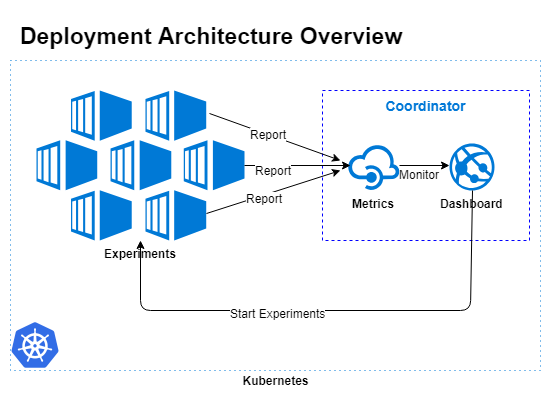
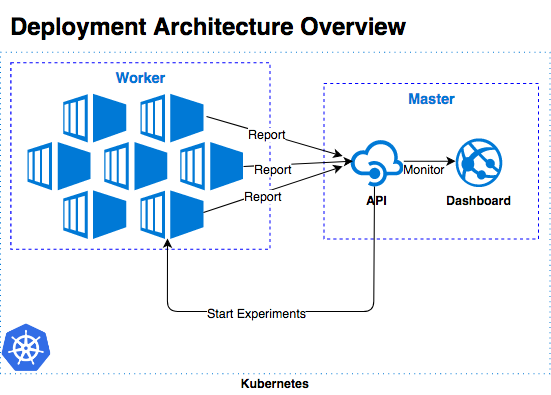
Restructures Overview page

diff --git a/docs/installation.rst b/docs/installation.rst
@@ -5,6 +5,8 @@ Installation
 
 Make sure to read :doc:`prerequisites` before installing mlbench.
 
+All guides assume you have checked out the mlbench github repository and have a terminal open in the checked-out ``mlbench`` directory.
+
 .. _helm-charts:
 
 Helm Chart values
@@ -40,6 +42,21 @@ Use helm to install the mlbench chart (Replace ``${RELEASE_NAME}`` with a name o
 
    $ helm upgrade --wait --recreate-pods -f values.yaml --timeout 900 --install ${RELEASE_NAME} charts/mlbench
 
+Follow the instructions at the end of the helm install to get the dashboard URL. E.g.:
+
+.. code-block:: bash
+   :emphasize-lines: 5,6,7
+
+   $ helm upgrade --wait --recreate-pods -f values.yaml --timeout 900 --install rel charts/mlbench
+     [...]
+     NOTES:
+     1. Get the application URL by running these commands:
+        export NODE_PORT=$(kubectl get --namespace default -o jsonpath="{.spec.ports[0].nodePort}" services rel-mlbench-master)
+        export NODE_IP=$(kubectl get nodes --namespace default -o jsonpath="{.items[0].status.addresses[0].address}")
+        echo http://$NODE_IP:$NODE_PORT
+
+This outputs the URL the Dashboard is accessible at.
+
 
 Google Cloud / Google Kubernetes Engine (GKE)
 ---------------------------------------------
@@ -61,7 +78,7 @@ Install mlbench (Replace ``${RELEASE_NAME}`` with a name of your choice):
 
    helm upgrade --wait --recreate-pods -f values.yaml --timeout 900 --install ${RELEASE_NAME} charts/mlbench
 
-To access mlbench, run these commands and open the URL that's returned (**Note**: The default instructions returned by `helm` on the commandline return the internal cluster ip only):
+To access mlbench, run these commands and open the URL that' is returned (**Note**: The default instructions returned by `helm` on the commandline return the internal cluster ip only):
 
 .. code-block:: bash
 

diff --git a/docs/dashboard.rst b/docs/dashboard.rst
@@ -1,11 +1,11 @@
-=========
+
 Dashboard
-=========
+^^^^^^^^^
 
 MLBench comes with a dashboard to manage and monitor the cluster and jobs.
 
 Main Page
----------
+"""""""""
 
 .. figure:: images/Dashboard_Index.png
    :alt: Dashboard Main Page
@@ -14,12 +14,27 @@ Main Page
 
 The main view shows all MLBench worker nodes and their current status
 
-Test Page
----------
+Runs Page
+"""""""""
 
 .. figure:: images/Dashboard_Test.png
-   :alt: Dashboard Test Page
+   :alt: Dashboard Runs Page
 
-   Dashboard Test Page
+   Dashboard Runs Page
 
-The Test page allows you to start an OpenMPI job on the worker nodes and shows the result
+The Runs page allows you to start a new experiment on the worker nodes. You can select how many workers to use, how many CPU Cores each worker can utilize and limit the network bandwidth available to workers.
+
+
+Run Details Page
+""""""""""""""""
+
+.. figure:: images/Dashboard_Run.png
+   :alt: Dashboard Run Details Page
+
+   Dashboard Run Details Page
+
+The Run Details page shows the progress and result of an experiment. You can track metrics like ``train loss`` and ``validation accuracy`` as well as see the ``stdout`` and ``stderr`` logs of all workers.
+
+It also allows you to download all the metrics of a run as well as resource usage of all workers participating in the run as json files.
+
+

diff --git a/docs/overview.rst b/docs/overview.rst
@@ -1,6 +1,6 @@
-========
-Overview
-========
+
+Component Overview
+=====================
 
 .. figure:: images/DeploymentArchitecture.png
    :alt: Deployment Architecture Overview
@@ -14,15 +14,16 @@ Master
 -----------
 The master contains the Dashboard, the  main interface for the project. The dashboard allows
 you to start and run a distributed ML experiment and visualizes the progress and result of the
-experiment. It allows management of the mlbench nodes in the kubernetes cluster and for most
+experiment. It allows management of the mlbench nodes in the Kubernetes cluster and for most
 users constitutes the sole way they interact with the mlbench project.
 
-It also contains a decidated metrics API that is used for the nodes to report their state back
-to the Master.
+It also contains a REST API that can be use instead of the Dashboard, as well as being used for receiving data from the Dashboard.
 
-The Master can also be granted access to the Kubernetes API to manage cluster settings
-relevant to the workers.
+The Master also manages the ``StatefulSet`` of worker through the Kubernetes API.
 
+.. include:: dashboard.rst
+
+.. include:: api.rst
 
 Worker
 ----------

diff --git a/docs/api.rst b/docs/api.rst
@@ -1,11 +1,11 @@
-========
+
 REST API
-========
+^^^^^^^^
 
 MLBench provides a basic REST Api though which most functionality can also be used. It's accessible through the /api/ endpoints on the dashboard URL.
 
 Pods
-----
+""""
 
 .. http:get:: /api/pods/
 
@@ -49,7 +49,7 @@ Pods
    :statuscode 200: no error
 
 Metrics
--------
+"""""""
 
 .. http:get:: /api/metrics/
 
@@ -212,7 +212,7 @@ Metrics
    :statuscode 201: no error
 
 Runs
-----
+""""
 .. http:get:: /api/runs/
 
    Gets all active/failed/finished runs
@@ -306,8 +306,8 @@ Runs
       POST /api/runs/ HTTP/1.1
       Host: example.com
       Accept: application/json, text/javascript
-      
-    
+
+
 
    :<json string name:       Name of the run
    :<json int num_workers:   Number of worker nodes for the run

diff --git a/docs/index.rst b/docs/index.rst
@@ -7,11 +7,8 @@
    self
    prerequisites
    installation
-   usage
    divisions
    overview
-   dashboard
-   api
    devguide
    contributing
    authors
